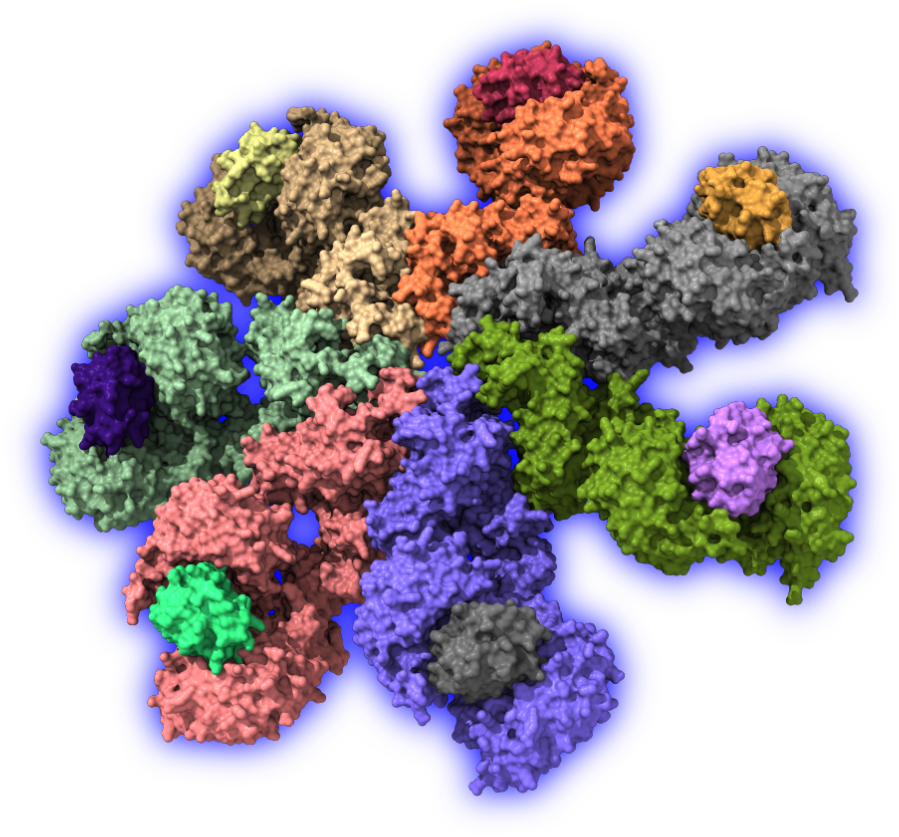
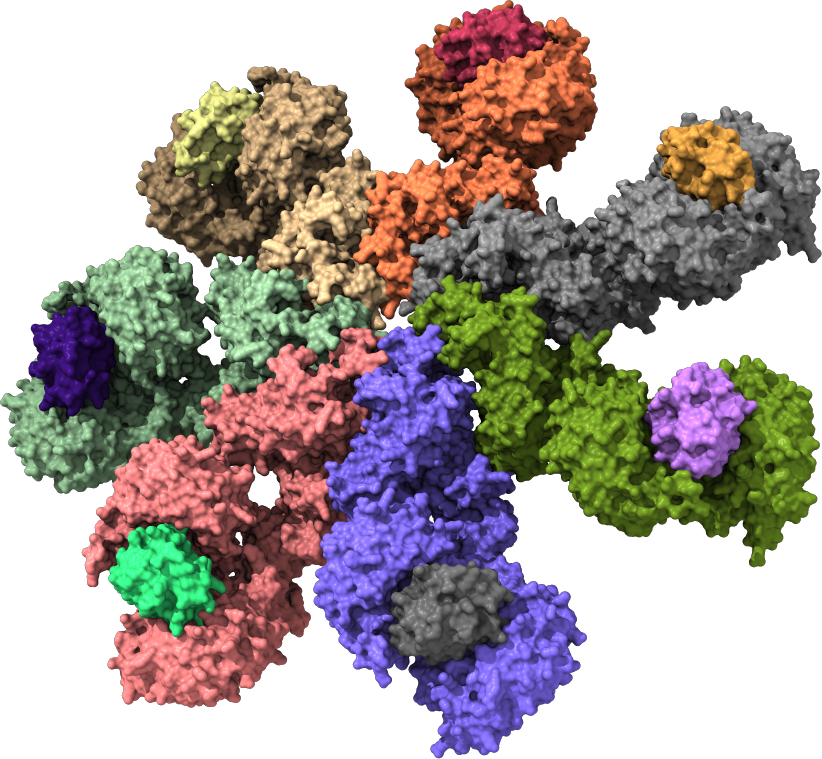
Add files via upload

diff --git a/Styles/header-paragraph.css b/Styles/header-paragraph.css
@@ -1,31 +1,46 @@
 body {
+  font-family: 'Poppins', sans-serif;
+  background-color: #000010;
   background-image: url(../Images/apoptosome_bg.png);
   background-repeat:no-repeat;
   background-position: center center;
   background-size: cover;
-  background-color: #000020;
+  }
+
+  .rotate {
+    animation: rotation 900s infinite linear;
+  }
+
+  @keyframes rotation {
+    from {
+      transform: rotate(0deg);
+    }
+    to {
+      transform: rotate(359deg);
+    }
   }
 
   html {
     scroll-behavior: smooth;
   }
 
-h1 {
-    color: #FFFFFF;
-    font-family: 'Poppins', sans-serif;
-    font-size: 128px;
-    text-align: right;
-  }
-
   p {
-    color:#FFFFFF;
-    font-family: 'Poppins', sans-serif;
+    color: #FFFFFF;
     font-size: 19px;
     line-height: 25px;
     text-align: center;
-    <!--width: 400pt;-->
+  }
+
+  .stroke {
+    font-size: 85px;
+    stroke-linejoin: round;
+    fill: #FFFFFF;
+    stroke: #000010;
+    stroke-width: 20px;
+    paint-order: stroke;
   }
 
   img {
     width: 512px;
+    filter: drop-shadow(0px 0px 20px #0000FF);
   }

diff --git a/index.html b/index.html
@@ -11,11 +11,11 @@
   </head>
 
   <body>
-    <h1>
-      Ultra Structures
-    </h1>
-
-    <img src="Images/apoptosome.png">
+    <img class="rotate" src="Images/apoptosome.png">
+    
+    <svg xmlns="http://www.w3.org/2000/svg" width="100%" height="100%">
+      <text class="stroke" x="50%" y="50%">Structural Biology</text>
+    </svg>
 
     <p>
       Being just the start of a career in discovery and discipline, compiling research is key.
